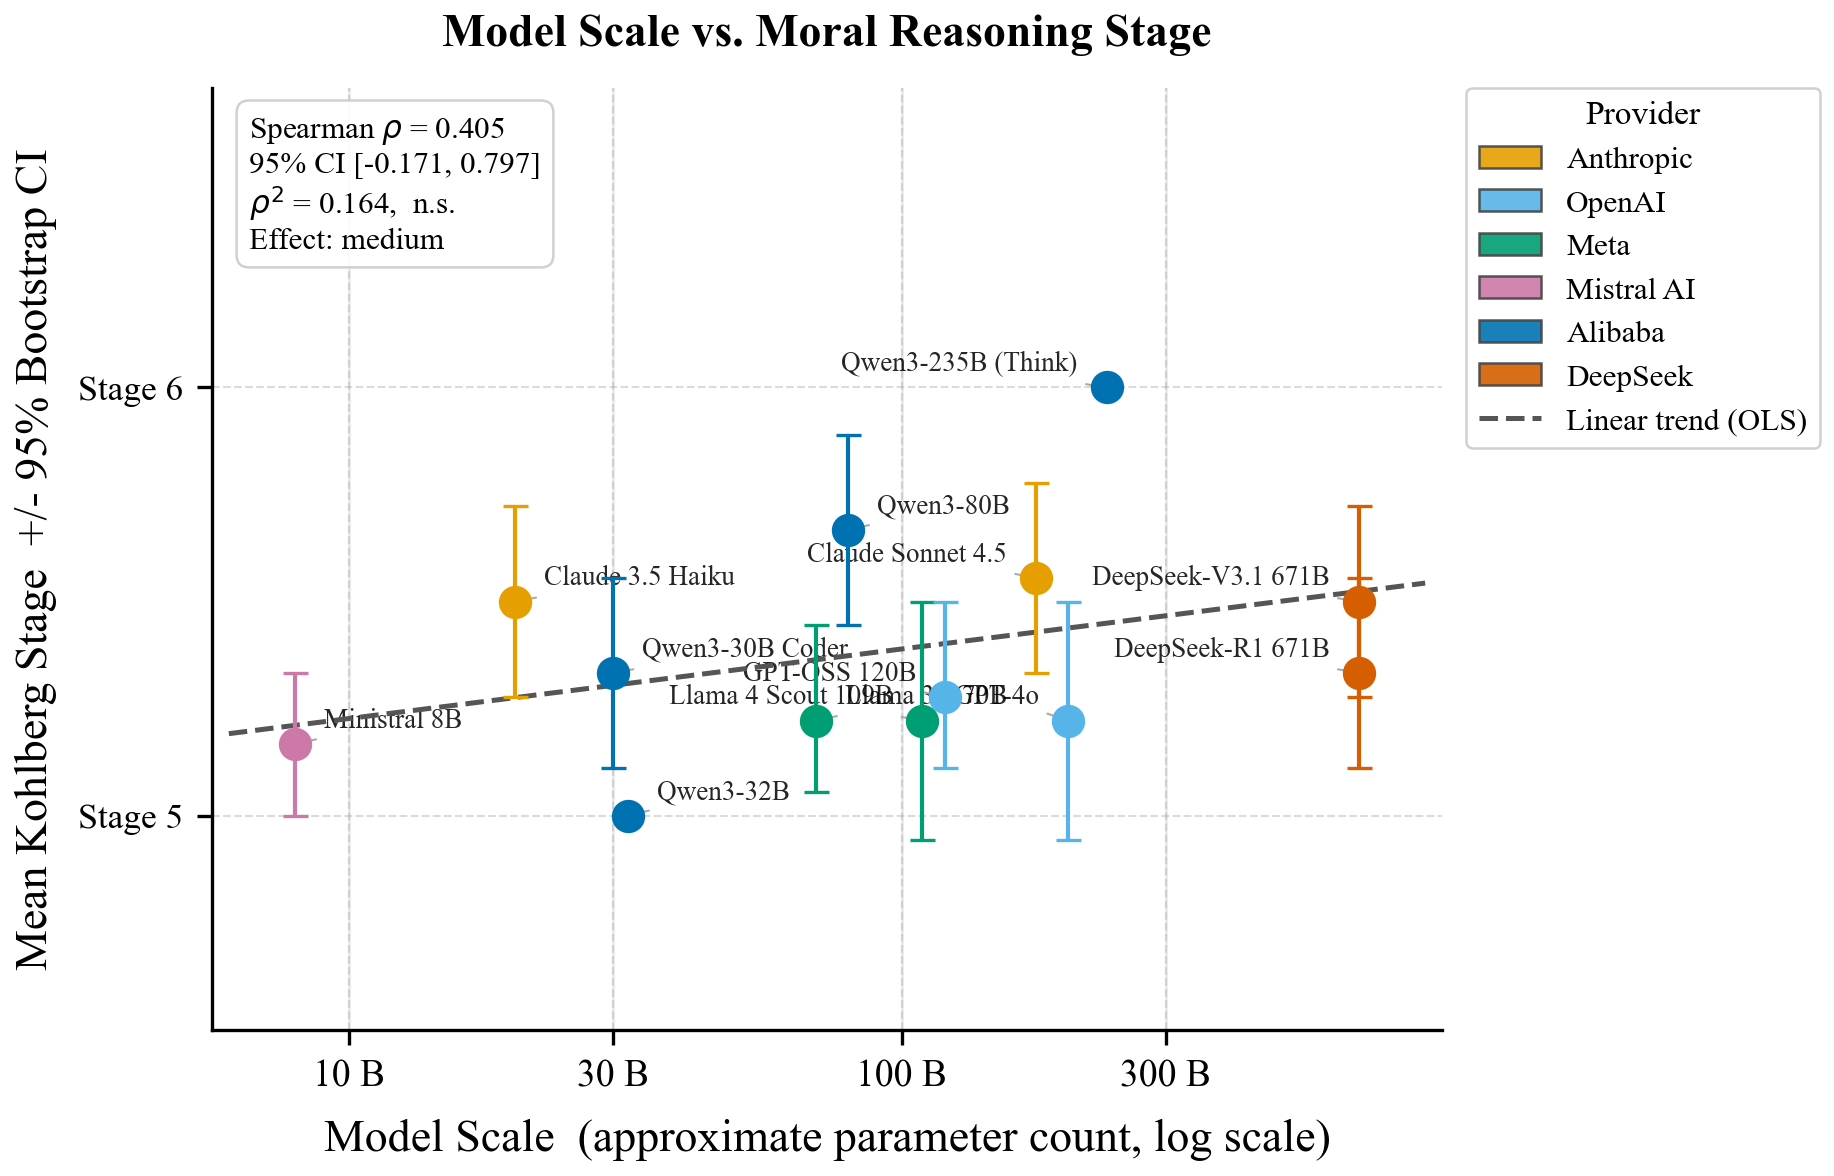
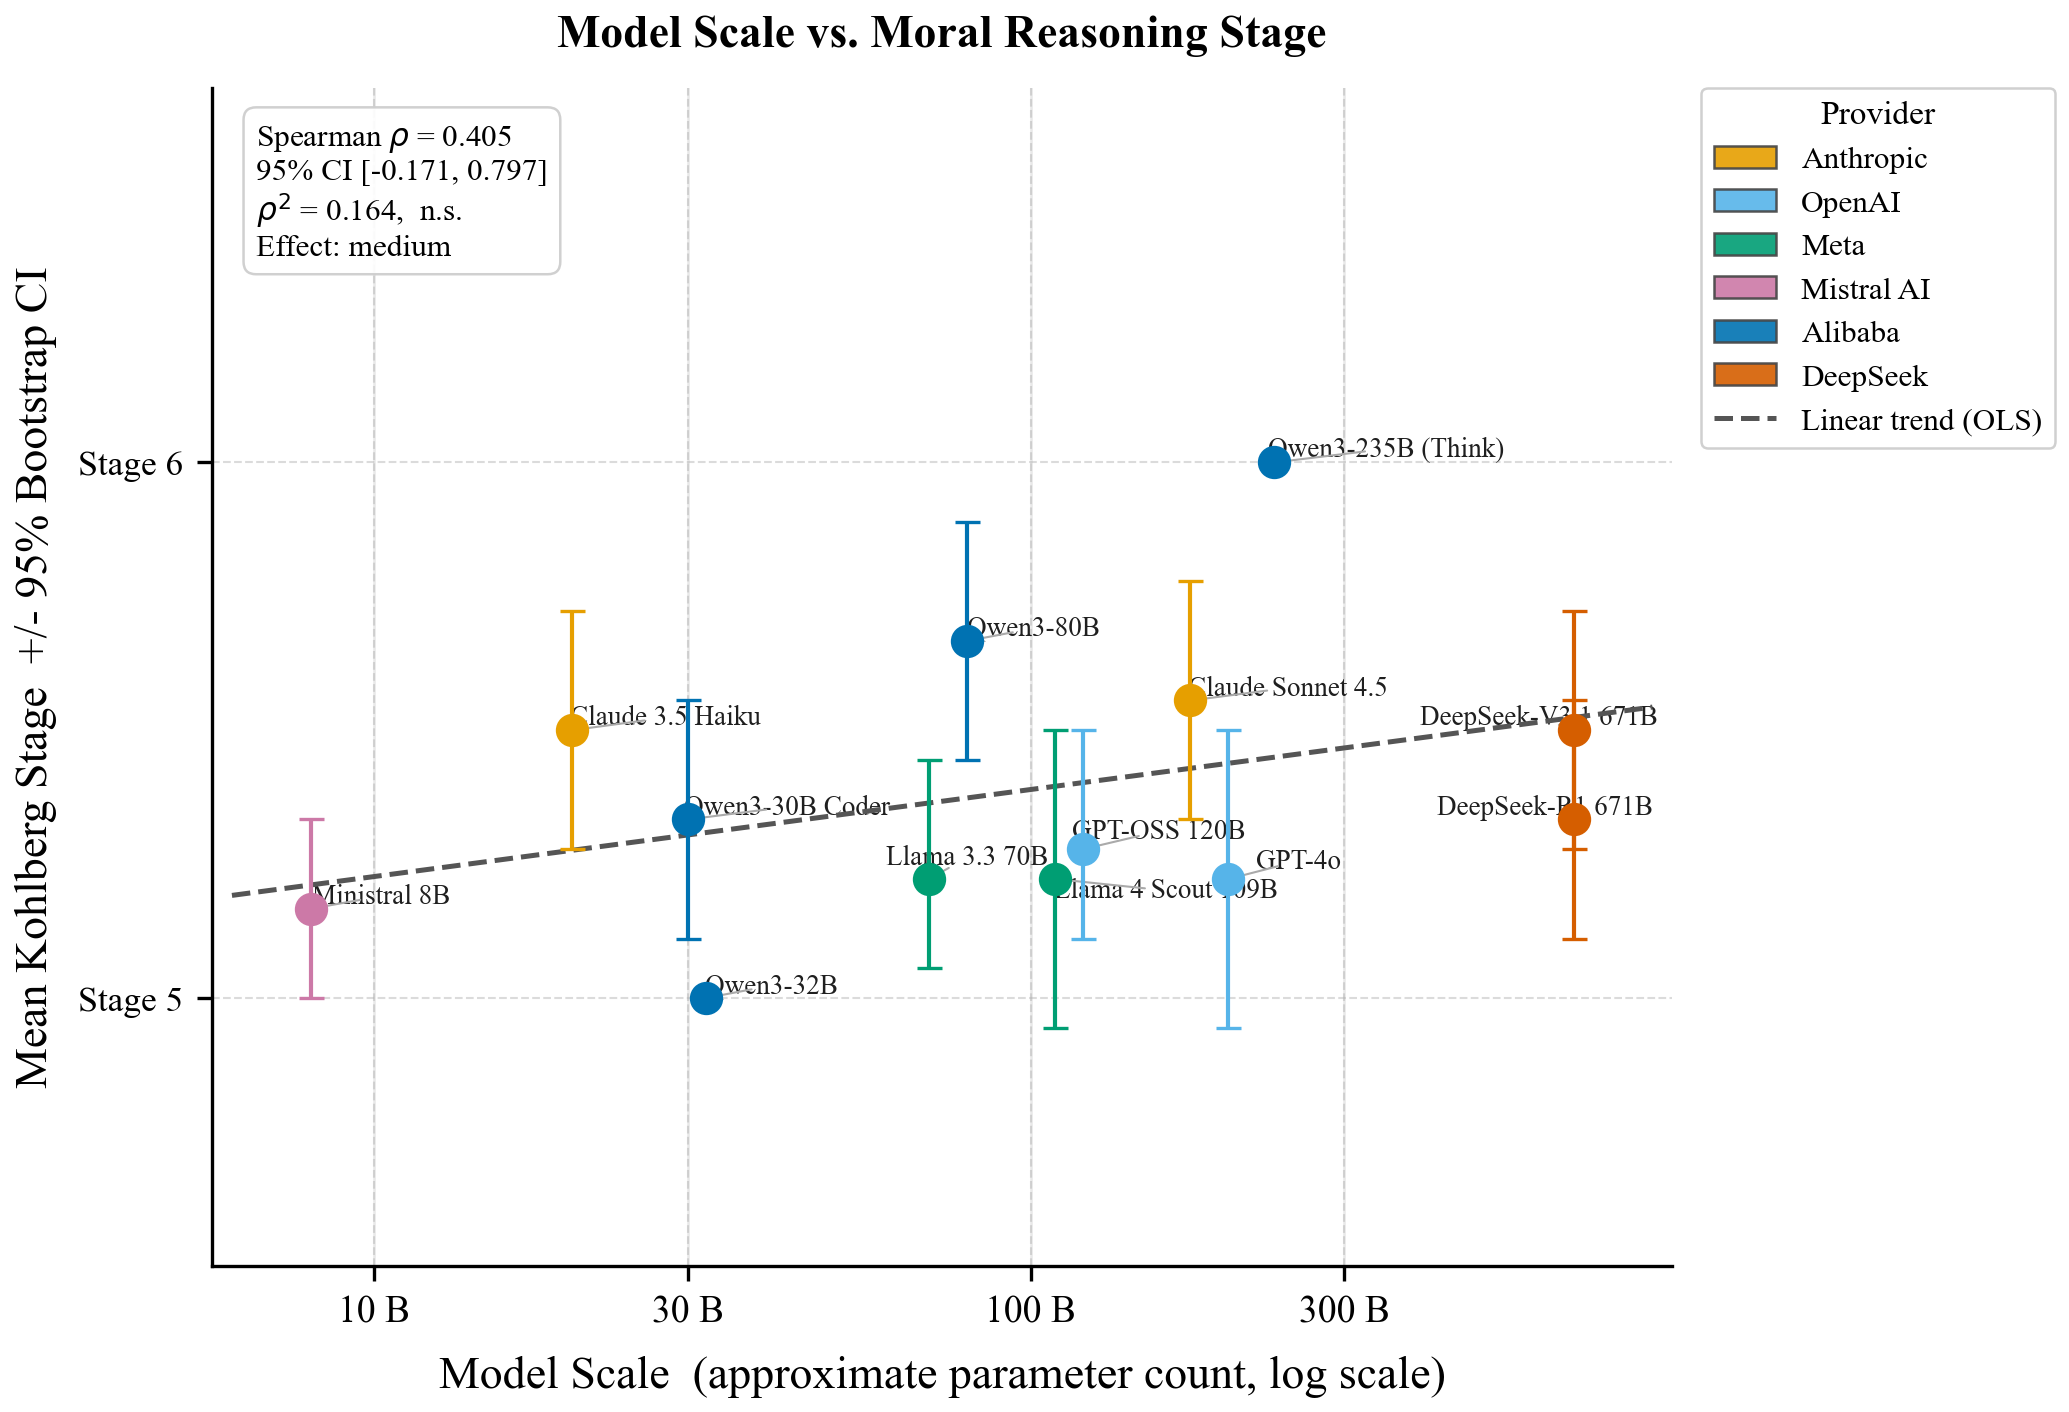
Updated one of the graph for analysis1

diff --git a/analysis1/visualizations.py b/analysis1/visualizations.py
@@ -174,12 +174,13 @@ def plot_scatter_scale_stage(
 
     Figure width: 120 mm (single-column wide / 1.5-column).
     """
-    # Wider figure for breathing room on x-axis
-    fig, ax = plt.subplots(figsize=(160 * MM, 105 * MM))
+    # Wider figure for breathing room on x-axis + extra height for label spreading
+    fig, ax = plt.subplots(figsize=(185 * MM, 125 * MM))
 
     x = summary["log_params"].values
     y = summary["mean_stage"].values
 
+    texts = []
     for _, row in summary.iterrows():
         col = _provider_color(row["provider"])
         ax.errorbar(
@@ -190,17 +191,28 @@ def plot_scatter_scale_stage(
             ecolor=col, elinewidth=1.0, capsize=3.0, capthick=0.8,
             markersize=7, zorder=5,
         )
-        # label offset: left half of chart → label to right, right half → left
-        offset = (7, 4) if row["log_params"] < np.median(x) else (-7, 4)
-        ha = "left" if offset[0] > 0 else "right"
-        ax.annotate(
+        # Collect text objects — adjustText will reposition them automatically
+        t = ax.text(
+            row["log_params"], row["mean_stage"],
             row["display_name"],
-            xy=(row["log_params"], row["mean_stage"]),
-            xytext=offset, textcoords="offset points",
-            fontsize=6.5, ha=ha, alpha=0.85,
-            arrowprops=dict(arrowstyle="-", color="#aaaaaa",
-                            lw=0.5, shrinkA=0, shrinkB=3),
+            fontsize=6.5, alpha=0.88,
         )
+        texts.append(t)
+
+    # Auto-repel overlapping labels and draw thin connector arrows back to dots
+    from adjustText import adjust_text
+    adjust_text(
+        texts,
+        x=x, y=y,
+        ax=ax,
+        arrowprops=dict(arrowstyle="-", color="#aaaaaa", lw=0.5, shrinkA=5),
+        expand=(1.4, 1.6),
+        force_text=(0.6, 0.8),
+        force_points=(0.5, 0.6),
+        ensure_inside_axes=True,
+        min_arrow_len=6,
+        max_move=3.0,
+    )
 
     # OLS trend (visual only — Spearman used for statistics)
     m, b = np.polyfit(x, y, 1)
